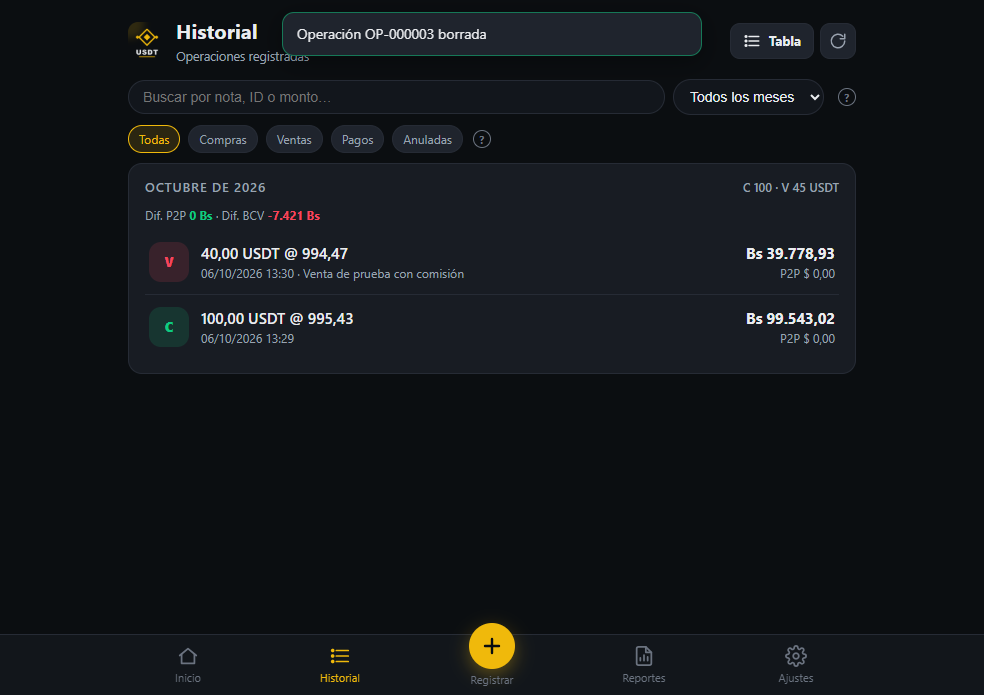
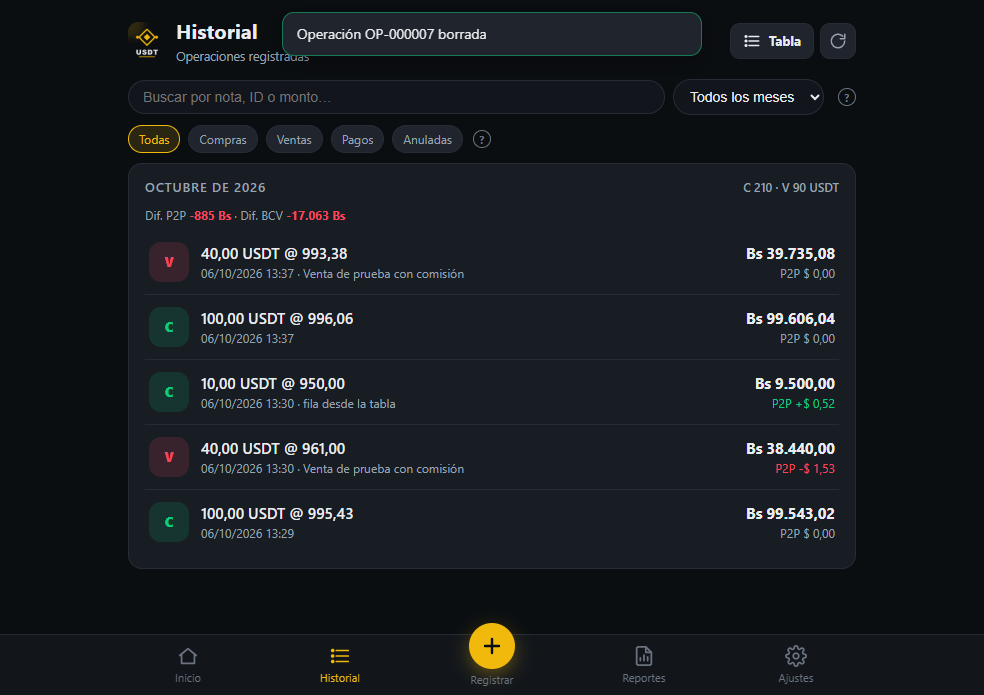
v1.6.3: compras/ventas de USDT con monto exacto pero registradas por el banco hasta 30 días después (con su línea de diferencial) pasan a confianza media y entran en el reporte; la tabla muestra por defecto solo las filas con diferencial (filtro "Con diferencial"; las salidas de USDT que no pasan po

diff --git a/app/src/conciliacion.js b/app/src/conciliacion.js
@@ -30,7 +30,7 @@ export const CATEGORIAS = [['usdt', 'USDT (Binance)'], ['efectivo', 'Efectivo $'
 const NOMBRE_CATEGORIA = Object.fromEntries(CATEGORIAS);
 const TITULO_CATEGORIA = { usdt: 'USDT (Binance)', efectivo: 'Efectivo $', materia: 'Materia prima y clientes', otros: 'Otros pagos' };
 
-const OPCIONES_DEF = { diasTolerancia: 3, tolUsd: 0.015, diasAmplios: 15 };
+const OPCIONES_DEF = { diasTolerancia: 3, tolUsd: 0.015, diasAmplios: 30 };
 const RATIO_MIN = 0.9, RATIO_MAX = 2.5;      // tasa pactada razonable respecto al BCV
 const DIAS_CANDIDATOS = 7;                    // ventana de la lista de candidatos para el selector manual
 const MAX_POOL = 16, MAX_NODOS = 150000;      // límites de la búsqueda de combinaciones de transferencias
@@ -515,7 +515,7 @@ function subconjuntosPorTamano(lista, minimo) {
  *  más cercana (±4 filas) cuya línea principal es de la operación.
  * Las ops derivadas (op.derivada) reciben la sugerencia de derivarDeDiferenciales calculada DESPUÉS de los activos.
  *
- * `opciones`: { diasTolerancia: 3, tolUsd: 0.015, diasAmplios: 15, tasas?, decisiones?, usados? }. Con `decisiones`
+ * `opciones`: { diasTolerancia: 3, tolUsd: 0.015, diasAmplios: 30, tasas?, decisiones?, usados? }. Con `decisiones`
  * (guardadas) esas ops conservan sus refs y nadie más puede usarlas.
  */
 export function emparejar(ops, movimientos, opciones) {
@@ -765,10 +765,12 @@ function construirSugerencias(ctx, e) {
     motivo = (e.ops.length === 2 ? 'Pagada junto con otra operación' : 'Pagada junto con ' + (e.ops.length - 1) + ' operaciones más') + ' del ' + ddmm(op0.fecha) + ': ' + nL + ' ' + (nL === 1 ? 'transferencia' : 'transferencias') + ' ' + nombreClase
       + (nD ? ' + ' + nD + ' de diferencial' : '') + ' en ' + banco + (total !== null ? ' por ' + ves(total) : '') + ' (' + num(montoOps) + ' ' + u + ' en total). Se reparte a la tasa promedio' + (tasaP ? ' ' + num(tasaP) : '') + '.' + textoFecha;
   } else if (e.fase === 'lejana' || e.fase === 'otroBanco' || e.fase === 'otro') {
-    confianza = 'baja';
+    // Monto exacto pero el banco lo registró otro día: es lo normal (BINANCE anota la orden; el banco, el pago, a veces
+    // semanas después). Si además trae su línea de diferencial, cuenta como media (se incluye en el reporte).
+    confianza = e.fase === 'lejana' && nD ? 'media' : 'baja';
     if (e.fase === 'otro') motivo = 'Solo se encontró una línea no marcada como ' + (clasePrincipal(op0) === 'EFECTIVO' ? 'EFECTIVO DOLARES' : 'BINANCE') + ' («' + String(e.lineas[0].m.descripcion || '').trim() + '», partida ' + String(e.lineas[0].m.partida || '').trim() + ') por ~' + num(sumaLineas) + ' ' + u + '. Revisa.';
     else if (e.fase === 'otroBanco') motivo = 'No apareció en ' + op0.bancoSugerido + '; se encontró en ' + banco + ' el ' + ddmm(e.lineas[0].fecha) + ': ' + textoLineas + textoDifs + '. Revisa.' + textoTasa;
-    else motivo = 'Monto exacto en ' + banco + ', pero ' + plural(dias, 'día', 'días') + (difDias(op0.fecha, fechasL[0]) < 0 ? ' antes' : ' después') + ' (' + fechasL.map(ddmm).join(' y ') + '): ' + textoLineas + textoDifs + '. Revisa la fecha.' + textoTasa;
+    else motivo = 'Monto exacto en ' + banco + ', registrado ' + plural(dias, 'día', 'días') + (difDias(op0.fecha, fechasL[0]) < 0 ? ' antes' : ' después') + ' (' + fechasL.map(ddmm).join(' y ') + '): ' + textoLineas + textoDifs + '.' + (nD ? ' La fecha distinta es normal (BINANCE anota la orden y el banco el pago).' : ' Sin línea de diferencial: revisa la fecha.') + textoTasa;
   } else {
     const razones = [];
     if (!nD && !soloDolares) razones.push('sin línea de diferencial: queda a tasa BCV, revisa si falta el diferencial');

diff --git a/app/src/pantallas/diferencial.js b/app/src/pantallas/diferencial.js
@@ -28,7 +28,7 @@ import {
 
 const TIPOS = ['COMPRA', 'VENTA', 'PAGO', 'EXCLUIR'];
 const RANGOS = [['mes', 'Este mes'], ['mes_anterior', 'Mes anterior'], ['trimestre', 'Trimestre'], ['anio', 'Este año'], ['todo', 'Todo']];
-const FILTROS = [['todas', 'Todas'], ['SUGERIDA', 'Sugeridas'], ['REVISAR', 'Por revisar'], ['CONFIRMADA', 'Confirmadas'], ['EXCLUIDA', 'Excluidas']];
+const FILTROS = [['conDif', 'Con diferencial'], ['todas', 'Todas'], ['SUGERIDA', 'Sugeridas'], ['REVISAR', 'Por revisar'], ['CONFIRMADA', 'Confirmadas'], ['EXCLUIDA', 'Excluidas']];
 const VISTAS = [['conciliar', 'Conciliar'], ['reporte', 'Reporte']];
 const OPCIONES_EMPAREJAR = { diasTolerancia: 3, tolUsd: 0.015 };
 const DIAS = [[3, '±3 días'], [7, '±7 días'], [15, '±15 días'], [30, '±30 días'], [0, 'Todas las fechas']];
@@ -48,7 +48,7 @@ const MAX_SELECTOR = 300, MAX_SIN_PAREJA = 300;
 
 /** Lo que sobrevive al salir y volver (p. ej. tras el bloqueo por inactividad): filtros y cambios sin guardar. */
 const memoria = {
-  rango: '', desde: null, hasta: '', vista: 'conciliar', categoria: 'todas', filtro: 'todas', texto: '',
+  rango: '', desde: null, hasta: '', vista: 'conciliar', categoria: 'todas', filtro: 'conDif', texto: '',
   soloConfirmadas: false, verSinPareja: false,
   cambios: new Map(),     // clave -> instantánea de la fila editada { modo, confirmada, quitada, bancoElegido, edicion }
   manuales: new Map(),    // clave -> op manual creada desde un movimiento bancario y aún no guardada
@@ -435,7 +435,7 @@ export function pantallaDiferencial({ manejarError }) {
     f.modo = 'manual'; f.edicion = edicionManual(op); f.bcvSug = 0;
     recalcular(f); f.confirmada = !incompleta(f);
     filas.push(f); ordenar(); recordar(f);
-    memoria.filtro = 'todas'; memoria.texto = ''; busq.value = '';
+    memoria.filtro = 'conDif'; memoria.texto = ''; busq.value = '';
     if (memoria.categoria !== 'todas' && memoria.categoria !== op.categoria) memoria.categoria = 'todas';
     pintarVista();
     if (f.dom && f.dom.usdt) { f.dom.usdt.scrollIntoView({ block: 'center' }); f.dom.usdt.focus(); f.dom.usdt.select(); }
@@ -638,7 +638,7 @@ export function pantallaDiferencial({ manejarError }) {
     return [fechaCorta(f.op.fecha), f.op.fechaTexto, f.op.descripcion, f.op.partida, f.op.ref, num(usdtDe(f), 2), e.banco, e.tipo, e.nota, e.refs.join(' '), etiquetaCategoria(e.categoria)]
       .join(' ').toLowerCase().includes(t);
   };
-  const visibles = () => vivas().filter(f => enCategoria(f) && (memoria.filtro === 'todas' || estadoDe(f) === memoria.filtro) && pasaTexto(f));
+  const visibles = () => vivas().filter(f => enCategoria(f) && (memoria.filtro === 'todas' || (memoria.filtro === 'conDif' ? estadoDe(f) !== 'EXCLUIDA' : estadoDe(f) === memoria.filtro)) && pasaTexto(f));
   const origenDe = (op) => op.manual ? 'manual · ' + (op.bancoSugerido || hojaDe(op.ref))
     : esDerivada(op) ? (op.bancoSugerido || hojaDe(op.ref)) + ' · diferencial' : hojaDe(op.ref) + ' fila ' + (op.fila || '?');
   const asegurarOpcion = (select, v, texto) => { if (v && ![...select.options].some(o => o.value === v)) select.appendChild(el('option', { value: v }, texto || v)); };

diff --git a/herramientas/simulador_backend.js b/herramientas/simulador_backend.js
@@ -23,7 +23,7 @@ const PUERTO = parseInt(process.argv[2], 10) || 8787;
 const DIR = path.join(__dirname, '..', 'backend');
 const CLAVE_PRUEBA = 'CLAVE-DE-PRUEBA-LOCAL-1234';
 const ZONA = 'America/Caracas';   // zona del script (appsscript.json) y de los libros
-const FIXTURE_BANCOS = path.join(__dirname, 'fixtures', 'bancos_muestra.json');
+const FIXTURE_BANCOS = process.env.SIM_BANCOS_FIXTURE || path.join(__dirname, 'fixtures', 'bancos_muestra.json');
 
 // Como Sheets: un texto que empieza con apóstrofo se guarda sin él (el apóstrofo solo fuerza "texto")
 const valorCelda = v => (typeof v === 'string' && v.charAt(0) === "'" ? v.slice(1) : v);

diff --git a/app/www/config.js b/app/www/config.js
@@ -34,5 +34,5 @@ window.CONFIG_USDT = {
   ACTUALIZACIONES: { propietario: 'AlexMielno', repositorio: 'usdt-cpa' },
 
   // Versión de esta compilación (la actualiza herramientas/nueva_version.js)
-  VERSION: '1.6.2',
+  VERSION: '1.6.3',
 };
